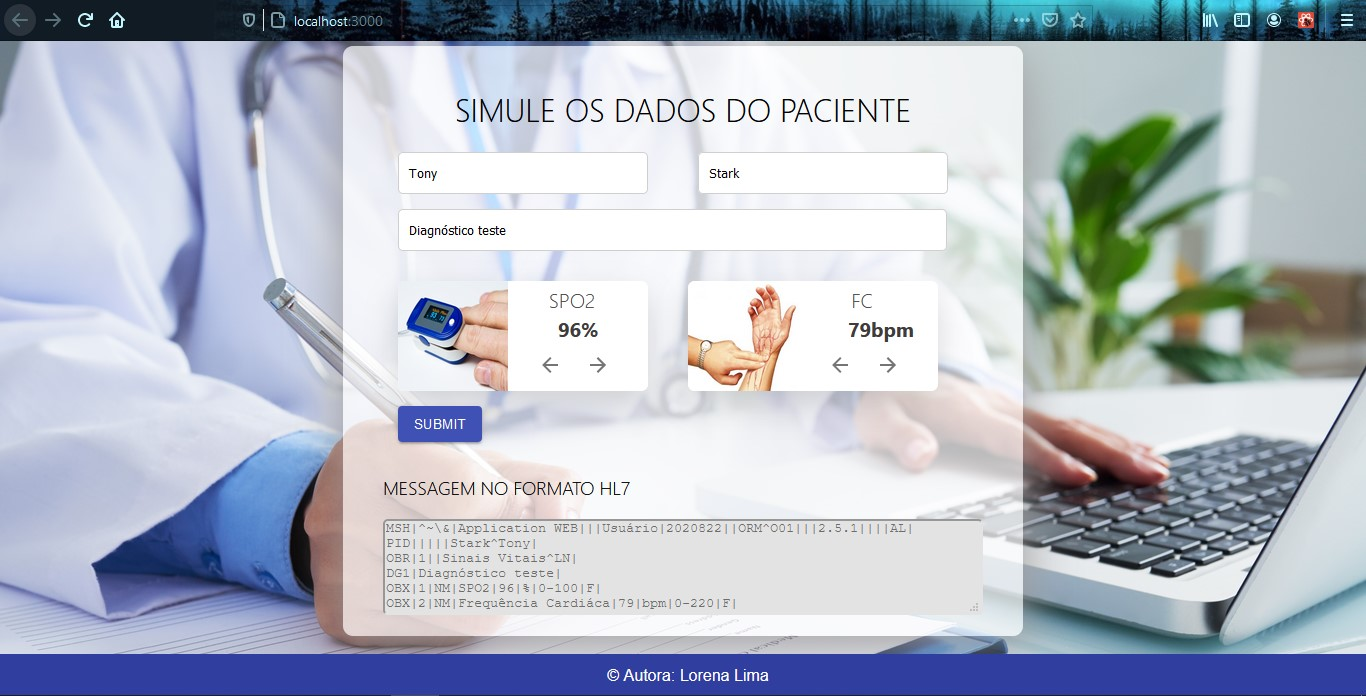
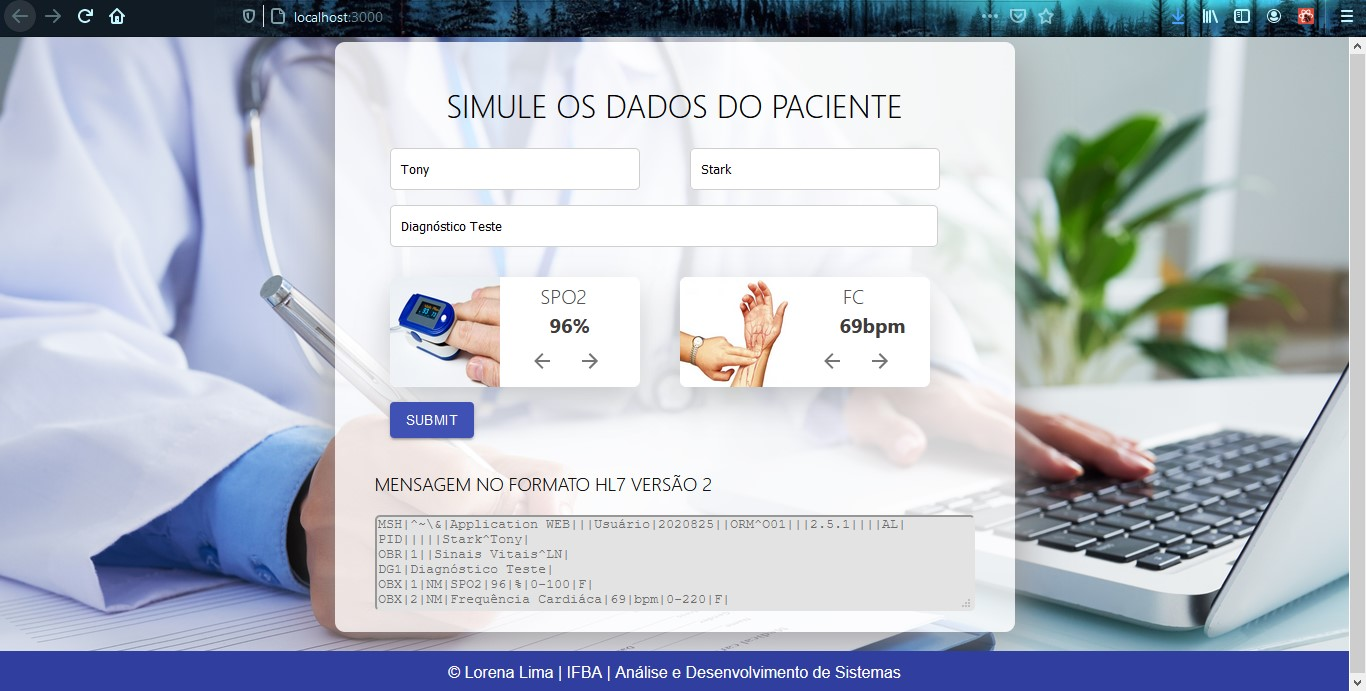
Atualização nas imagens e add páginas vazia para qualquer rota.

diff --git a/src/pages/Empty/styles.scss b/src/pages/Empty/styles.scss
@@ -1,0 +1,33 @@
+.box{
+    display: flex;
+	justify-content: center;
+	align-items: center;
+	flex-direction: row;
+	flex-wrap: wrap;
+	padding-bottom: 2.5rem;
+}
+
+.box-2{
+    margin-top: 10%;
+    max-width: 500px;
+    height: 300px;
+    display: flex;
+    flex: 1 auto;
+    flex-direction: column;
+    padding: 20px 40px;
+    border-radius: 10px;
+    box-shadow: 0px 10px 50px rgb(155, 153, 153);
+    background-color: rgba(255, 255, 255, 0.856);
+}
+
+.empty{
+    position: relative;
+    height: 180px;
+    h2{
+        margin-top: 10%;
+        text-align: center;
+        width: auto;
+        text-transform: uppercase;
+        font-weight: lighter;
+    }
+}

diff --git a/src/index.js b/src/index.js
@@ -4,11 +4,13 @@ import './index.scss';
 import {BrowserRouter, Switch, Route} from 'react-router-dom';
 import Home from './pages/Home';
 import Footer from '../src/components/Footer';
+import Empty from '../src/pages/Empty';
 
 ReactDOM.render(
     <BrowserRouter>
       <Switch>
         <Route path="/" component={Home} exact/>
+        <Route component={Empty}/>
       </Switch>
       <Footer />
     </BrowserRouter>,

diff --git a/src/pages/Empty/index.js b/src/pages/Empty/index.js
@@ -1,0 +1,15 @@
+import React from 'react';
+import './styles.scss';
+
+export default function Empty(){
+    return(
+        <div className="box">
+            <div className="box-2">
+                <div className="empty">
+                    <h1>Não há mais páginas para navegar</h1>
+                    <h2>Obrigada por usar a aplicação!!</h2>
+                </div>
+            </div>
+        </div>
+    );
+}
